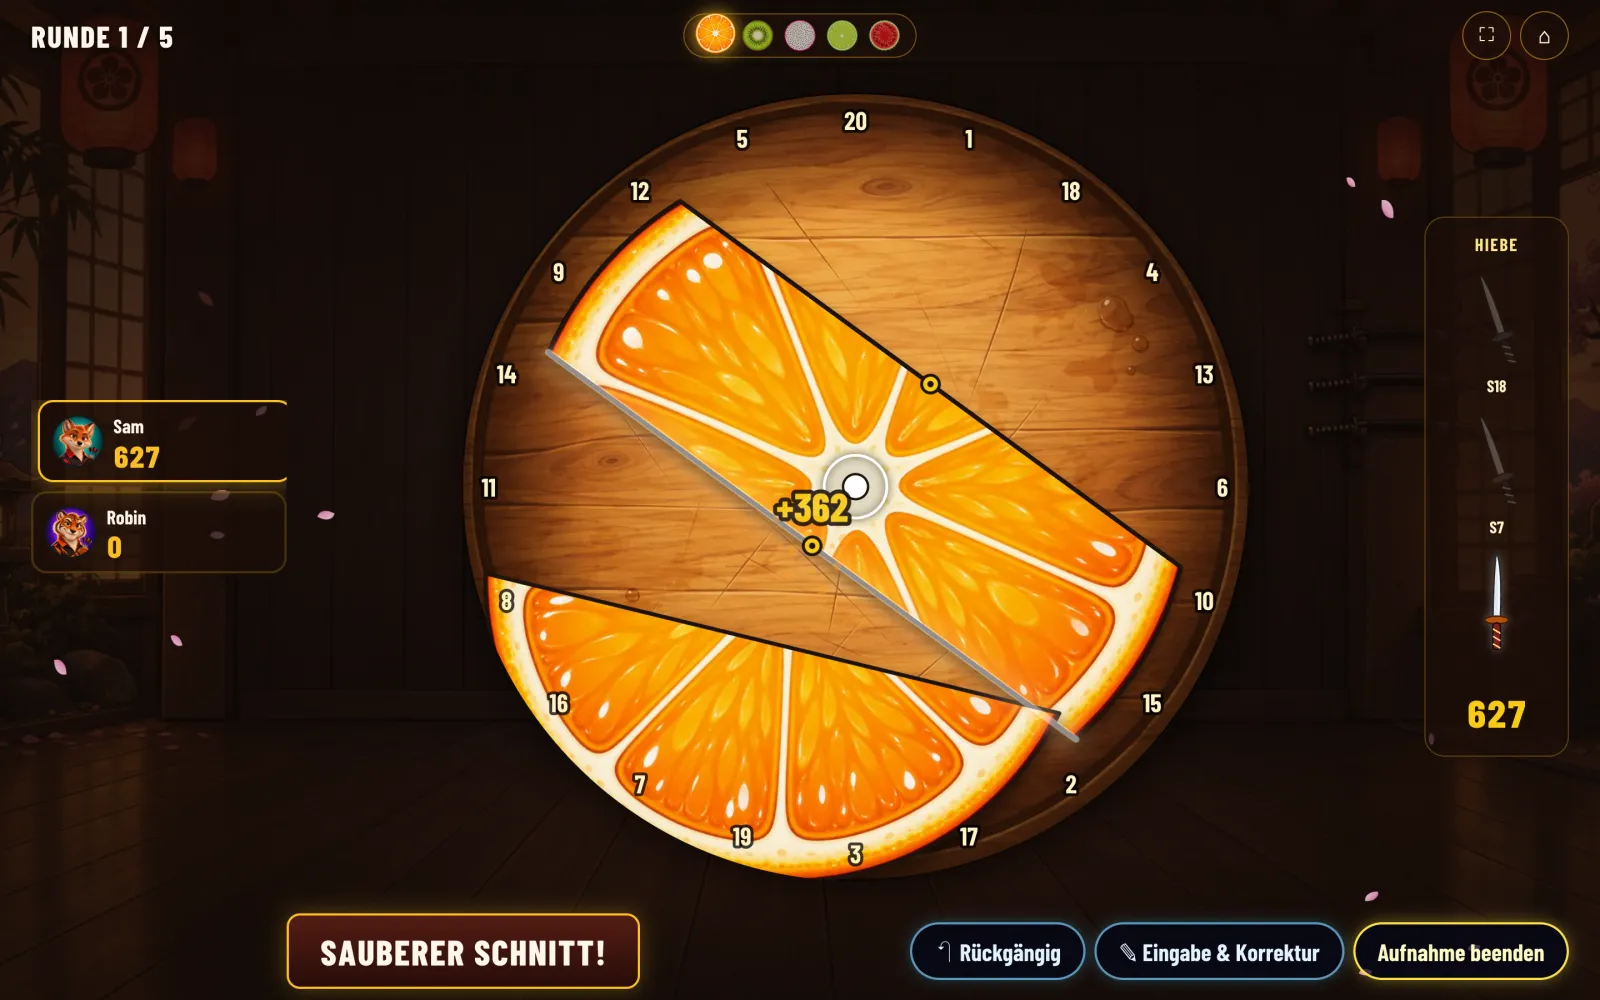
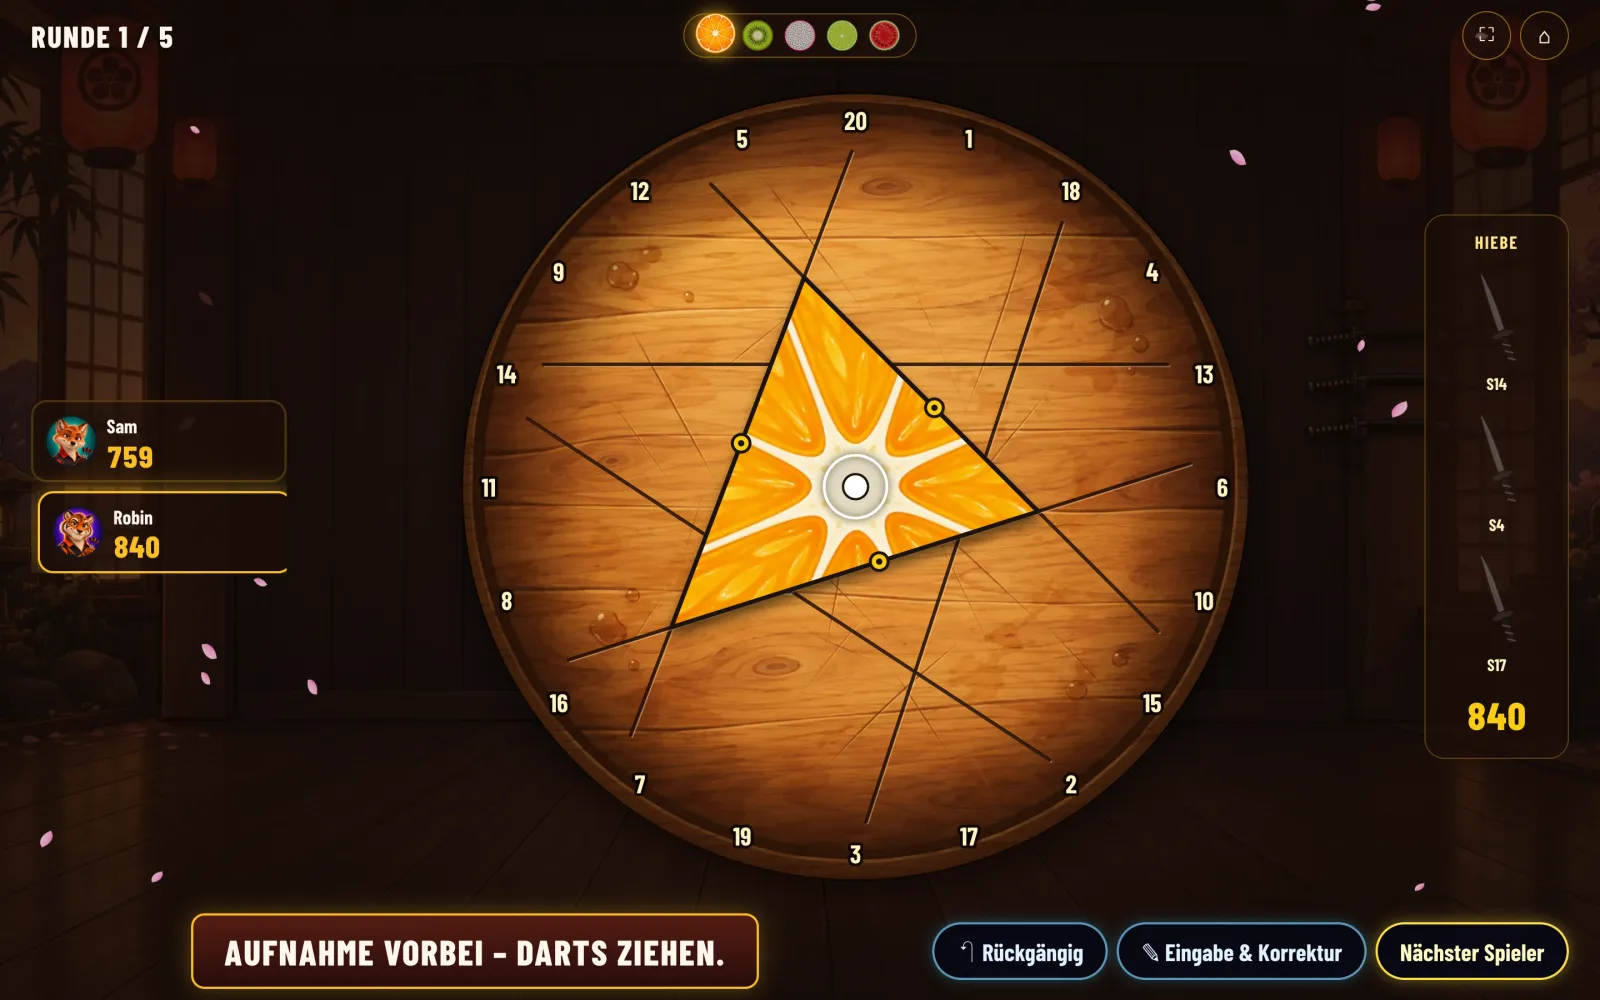
Project page: Fruit Samurai screenshots with grooves and dart holes in the board

diff --git a/docs/site/index.html b/docs/site/index.html
@@ -515,10 +515,10 @@
       </div>
       <div class="arcade-card wide reveal">
         <div class="pair">
-          <img src="img/fruit.webp" alt="Fruit Samurai: an orange cut in two on a wooden board in a dojo, swords as darts" width="1600" height="1000" loading="lazy">
-          <img src="img/fruit-finale.webp" alt="Fruit Samurai finale: a watermelon sliced through the bull, double points" width="1600" height="1000" loading="lazy">
+          <img src="img/fruit.webp" alt="Fruit Samurai: an orange cut down to a triangle, the cuts left as grooves in the wooden board" width="1600" height="1000" loading="lazy">
+          <img src="img/fruit-finale.webp" alt="Fruit Samurai finale: a watermelon wedge left after several cuts, double points" width="1600" height="1000" loading="lazy">
         </div>
-        <div><h3>Fruit Samurai</h3><p>Every turn a fresh fruit covers the board – orange, kiwi, dragon fruit, lime. Each dart is a sword cut straight through where it lands, across the line to the bull; the piece on the dart's side flies off and scores by its size. The closer to the bull, the bigger the piece, the bullseye takes everything that is left. The finale is a big watermelon that counts double – all in a dojo with falling cherry blossoms.</p></div>
+        <div><h3>Fruit Samurai</h3><p>Every turn a fresh fruit covers the board – orange, kiwi, dragon fruit, lime. Each dart is a sword cut straight through where it lands, across the line to the bull; the piece on the dart's side flies off and scores by its size. The closer to the bull, the bigger the piece, the bullseye takes everything that is left. Every cut leaves a groove and every dart a hole in the cutting board for the whole round. The finale is a big watermelon that counts double – all in a dojo with falling cherry blossoms.</p></div>
       </div>
     </div>
   </div>
@@ -716,10 +716,10 @@
     'One monster at a time stands on the board of a night graveyard. A dart near its middle is a headshot, a graze costs it a life, a miss makes it grow. Monsters breathe, hop and flap as GPU puppets; bullet holes, sparks and screen shake on every hit.': 'Auf der Scheibe eines nächtlichen Friedhofs steht immer genau ein Monster. Ein Dart nah an der Mitte ist ein Kopfschuss, ein Streifschuss kostet ein Leben, ein Fehlwurf lässt es wachsen. Die Monster atmen, hüpfen und flattern als GPU-Puppen; Einschusslöcher, Funken und Wackeln bei jedem Treffer.',
     'Regular X01 rules in full screen: remaining scores drain like batteries, darts appear on a neon board at their real position, every dart strikes lightning and a bust shorts the circuit. Corrections open in a popup.': 'Normale X01-Regeln im Vollbild: Der Rest leert sich wie eine Batterie, Darts erscheinen an ihrer echten Position auf einer Neon-Scheibe, jeder Dart lässt einen Blitz einschlagen, ein Bust sorgt für Kurzschluss. Korrekturen öffnen sich in einem Popup.',
     'Fruit Samurai': 'Fruit Samurai',
-    "Every turn a fresh fruit covers the board – orange, kiwi, dragon fruit, lime. Each dart is a sword cut straight through where it lands, across the line to the bull; the piece on the dart's side flies off and scores by its size. The closer to the bull, the bigger the piece, the bullseye takes everything that is left. The finale is a big watermelon that counts double – all in a dojo with falling cherry blossoms.": 'In jeder Aufnahme liegt eine frische Frucht auf der Scheibe – Orange, Kiwi, Drachenfrucht, Limette. Jeder Dart ist ein Schwerthieb genau dort, wo er steckt, quer zur Linie zum Bull; das Stück auf der Seite des Darts fliegt weg und zählt nach seiner Größe. Je näher am Bull, desto größer das Stück, das Bullseye nimmt alles, was übrig ist. Im Finale wartet eine große Wassermelone, die doppelt zählt – alles in einem Dojo mit fallenden Kirschblüten.',
+    "Every turn a fresh fruit covers the board – orange, kiwi, dragon fruit, lime. Each dart is a sword cut straight through where it lands, across the line to the bull; the piece on the dart's side flies off and scores by its size. The closer to the bull, the bigger the piece, the bullseye takes everything that is left. Every cut leaves a groove and every dart a hole in the cutting board for the whole round. The finale is a big watermelon that counts double – all in a dojo with falling cherry blossoms.": 'In jeder Aufnahme liegt eine frische Frucht auf der Scheibe – Orange, Kiwi, Drachenfrucht, Limette. Jeder Dart ist ein Schwerthieb genau dort, wo er steckt, quer zur Linie zum Bull; das Stück auf der Seite des Darts fliegt weg und zählt nach seiner Größe. Je näher am Bull, desto größer das Stück, das Bullseye nimmt alles, was übrig ist. Jeder Schnitt hinterlässt eine Kerbe und jeder Dart ein Loch im Schneidebrett, die ganze Runde lang. Im Finale wartet eine große Wassermelone, die doppelt zählt – alles in einem Dojo mit fallenden Kirschblüten.',
     // image descriptions
-    'Fruit Samurai: an orange cut in two on a wooden board in a dojo, swords as darts': 'Fruit Samurai: eine halbierte Orange auf einem Holzbrett im Dojo, Schwerter als Darts',
-    'Fruit Samurai finale: a watermelon sliced through the bull, double points': 'Fruit-Samurai-Finale: eine Wassermelone, durch das Bull geschnitten, doppelte Punkte',
+    'Fruit Samurai: an orange cut down to a triangle, the cuts left as grooves in the wooden board': 'Fruit Samurai: eine auf ein Dreieck zugeschnittene Orange, die Schnitte bleiben als Kerben im Holzbrett',
+    'Fruit Samurai finale: a watermelon wedge left after several cuts, double points': 'Fruit-Samurai-Finale: ein Wassermelonen-Keil nach mehreren Schnitten, doppelte Punkte',
     'Versus screen: two players face each other in their colours with a slamming VS': 'Versus-Bildschirm: Zwei Spieler stehen sich in ihren Farben gegenüber, dazwischen ein wuchtiges VS',
     'Line-up: player 2 of 4 is introduced on a coloured band': 'Aufstellung: Spieler 2 von 4 wird auf einem farbigen Band vorgestellt',
     'Up next: the next player with the remaining score over the blurred game': 'Am Zug: der nächste Spieler mit Restpunkten über dem unscharfen Spiel',
